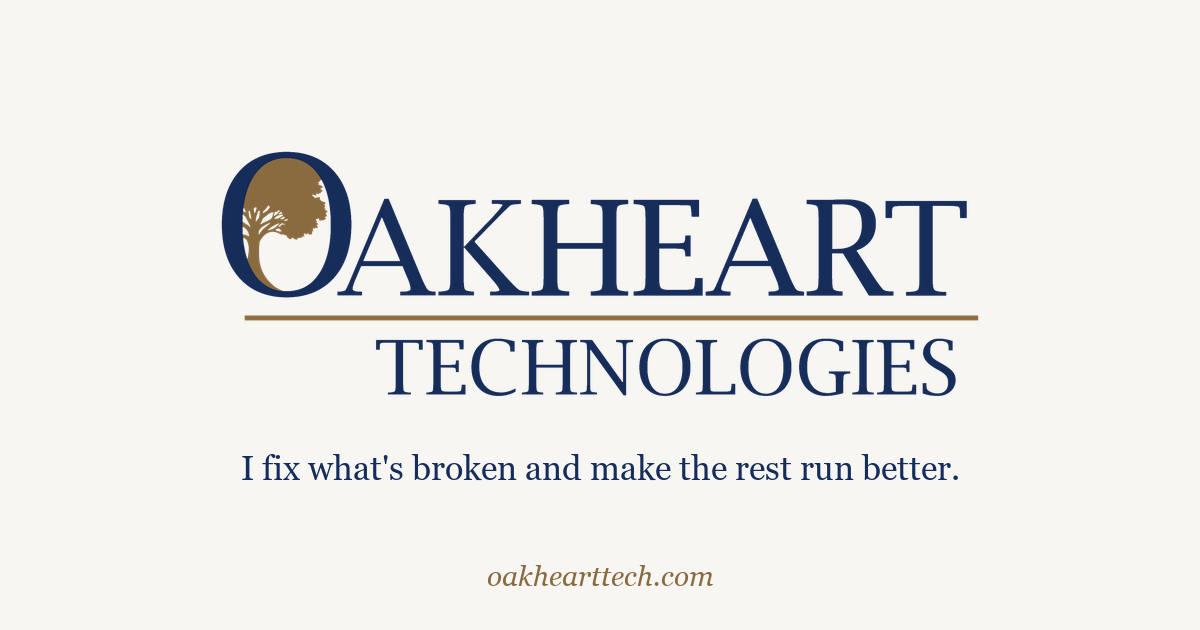
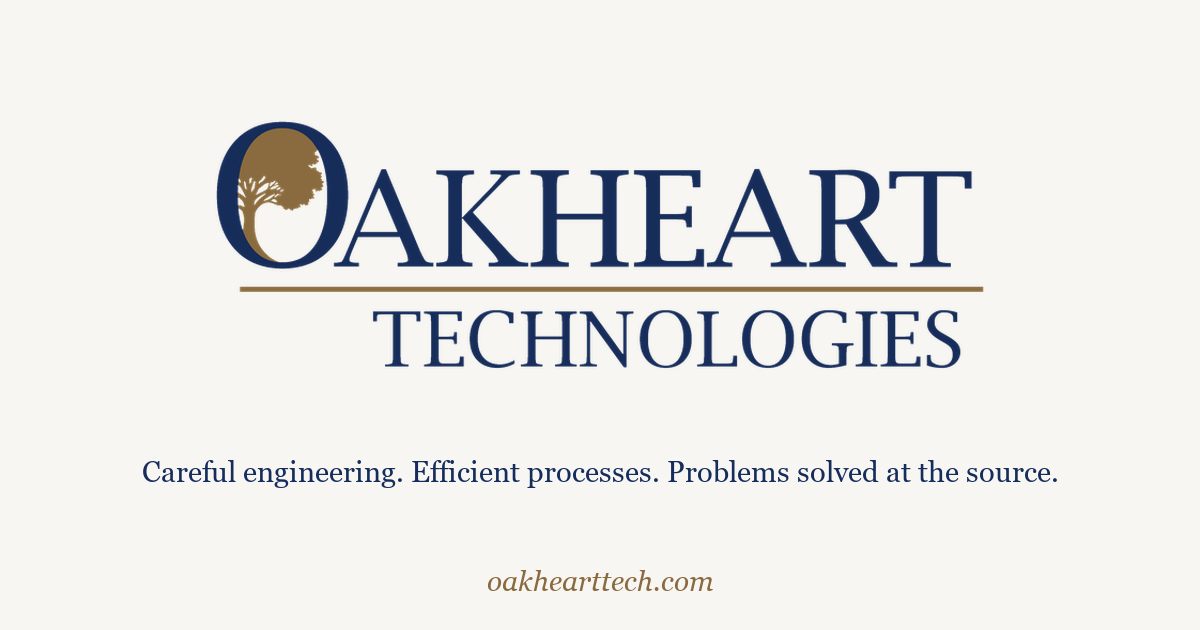
Updated tagline and images

Changed region(s): [[0.1542, 0.181, 0.8325, 0.6333], [0.1233, 0.7238, 0.8633, 0.7841], [0.4008, 0.9048, 0.6167, 0.9349]]

diff --git a/src/data/site.ts b/src/data/site.ts
@@ -4,7 +4,7 @@ export const site = {
   url: 'https://oakhearttech.com',
   email: 'tyler@oakhearttech.com',
   location: 'Spokane, WA',
-  tagline: 'Software that works the way your business does.',
+  tagline: 'Careful engineering. Efficient processes. Problems solved at the source.',
 
   // Microsoft Bookings page URL. Until this is set, "Book a call" buttons go to /contact#book.
   bookingUrl: 'https://bookings.cloud.microsoft/book/OakheartTechnologies1@oakhearttech.com/',
